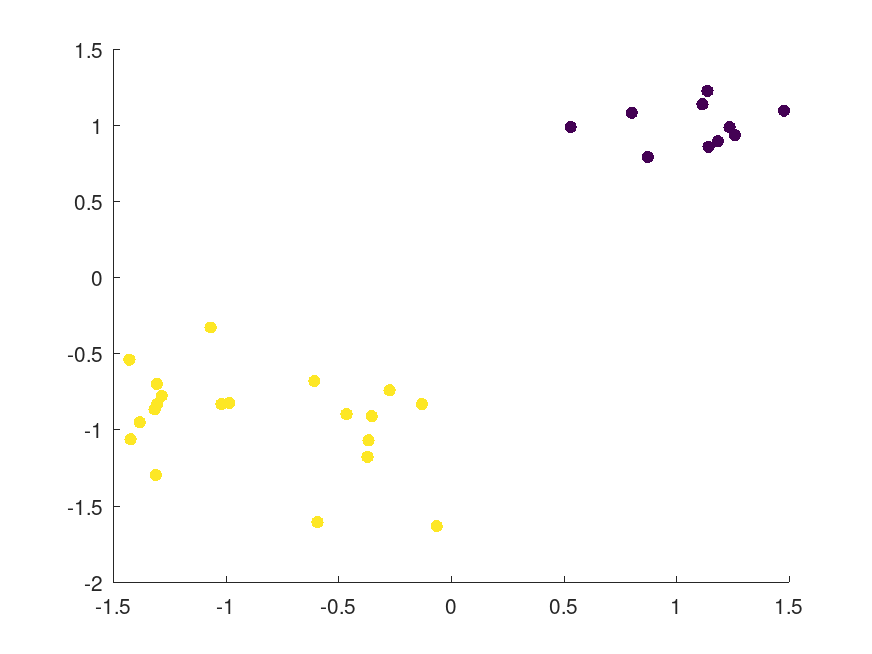
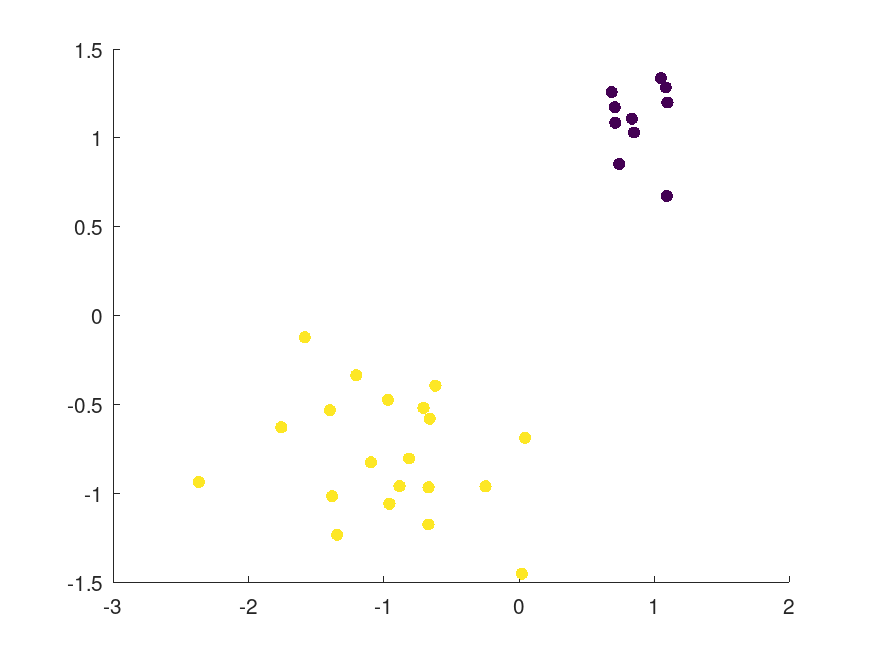
update documentation

diff --git a/docs/slicesample.html b/docs/slicesample.html
@@ -171,6 +171,7 @@ randsample
  ## Define function to sample
  d = 2;
  mu = [-1; 2];
+ rand ("seed", 5)  # for reproducibility
  Sigma = rand (d);
  Sigma = (Sigma + Sigma');
  Sigma += eye (d)*abs (eigs (Sigma, 1, "sa")) * 1.1;
@@ -181,7 +182,8 @@ randsample
  nsamples = 500;
  K = 500;
  m = 10;
- [smpl, accept]=slicesample (start, nsamples, "pdf", pdf, "burnin", K, "thin", m, "width", [20, 30]);
+ rande ("seed", 4);  rand ("seed", 5)  # for reproducibility
+ [smpl, accept] = slicesample (start, nsamples, "pdf", pdf, "burnin", K, "thin", m, "width", [20, 30]);
  figure;
  hold on;
  plot (smpl(:,1), smpl(:,2), 'x');
@@ -194,14 +196,14 @@ randsample
  int = mean (f (smpl) ./ pdf (smpl));
  errest = std (f (smpl) ./ pdf (smpl)) / nsamples^.5;
  trueerr = abs (2/3*pi*.25^(3/2)-int);
- fprintf("Monte Carlo integral estimate int f(x) dx = %f\n", int);
- fprintf("Monte Carlo integral error estimate %f\n", errest);
- fprintf("The actual error %f\n", trueerr);
+ fprintf ("Monte Carlo integral estimate int f(x) dx = %f\n", int);
+ fprintf ("Monte Carlo integral error estimate %f\n", errest);
+ fprintf ("The actual error %f\n", trueerr);
  mesh (x,y,reshape (f([x(:), y(:)]), size(x)), "facecolor", "None");
 
-Monte Carlo integral estimate int f(x) dx = 0.313119
-Monte Carlo integral error estimate 0.056838
-The actual error 0.051320
+Monte Carlo integral estimate int f(x) dx = 0.228408
+Monte Carlo integral error estimate 0.029831
+The actual error 0.033392
                     </pre></td></tr></tbody>
                   </table>
                   <div class="text-center">
@@ -235,22 +237,23 @@ The actual error 0.051320
  ## Integrate truncated normal distribution to find normilization constant
  pdf = @(x) exp (-.5*x.^2)/(pi^.5*2^.5);
  nsamples = 1e3;
- [smpl,accept] = slicesample (1, nsamples, "pdf", pdf, "thin", 4);
+ rande ("seed", 4);  rand ("seed", 5)  # for reproducibility
+ [smpl, accept] = slicesample (1, nsamples, "pdf", pdf, "thin", 4);
  f = @(x) exp (-.5 * x .^ 2) .* (x >= -2 & x <= 2);
- x=linspace(-3,3,1000);
- area(x,f(x));
- xlabel ('x');
- ylabel ('f(x)');
- int = mean (f (smpl)./pdf(smpl));
- errest = std (f (smpl)./pdf(smpl))/nsamples^.5;
- trueerr = abs (erf (2^.5)*2^.5*pi^.5-int);
+ x = linspace (-3, 3, 1000);
+ area (x, f(x));
+ xlabel ("x");
+ ylabel ("f(x)");
+ int = mean (f (smpl) ./ pdf (smpl));
+ errest = std (f (smpl) ./ pdf (smpl)) / nsamples ^ 0.5;
+ trueerr = abs (erf (2 ^ 0.5) * 2 ^ 0.5 * pi ^ 0.5 - int);
  fprintf("Monte Carlo integral estimate int f(x) dx = %f\n", int);
  fprintf("Monte Carlo integral error estimate %f\n", errest);
  fprintf("The actual error %f\n", trueerr);
 
-Monte Carlo integral estimate int f(x) dx = 2.368764
-Monte Carlo integral error estimate 0.018080
-The actual error 0.023812
+Monte Carlo integral estimate int f(x) dx = 2.376284
+Monte Carlo integral error estimate 0.017608
+The actual error 0.016292
                     </pre></td></tr></tbody>
                   </table>
                   <div class="text-center">

diff --git a/docs/index.html b/docs/index.html
@@ -728,7 +728,7 @@ samples as parameters.</td>
                    <a href="chi2cdf.html">chi2cdf</a>
                    </code></b>
                  </td>
-                 <td>Chi-squared cumulative distribution function.</td>
+                 <td>Chi-squared cumulative distribution function (CDF).</td>
                </tr>
                <tr>
                  <td>
@@ -1485,7 +1485,7 @@ with given parameters.</td>
                    <a href="nctpdf.html">nctpdf</a>
                    </code></b>
                  </td>
-                 <td>Noncentral Τ probability density function (pdf).</td>
+                 <td>Noncentral Τ probability density function (PDF).</td>
                </tr>
                <tr>
                  <td>

diff --git a/docs/clusterdata.html b/docs/clusterdata.html
@@ -118,7 +118,12 @@
                     <td>&nbsp;</td>
                     <td><pre class="example">
 
- X = [(randn (10, 2) * 0.25) + 1; (randn (20, 2) * 0.5) - 1];
+ randn ("seed", 1)  # for reproducibility
+ r1 = randn (10, 2) * 0.25 + 1;
+ randn ("seed", 5)  # for reproducibility
+ r2 = randn (20, 2) * 0.5 - 1;
+ X = [r1; r2];
+
  wnl = warning ("off", "Octave:linkage_savemem", "local");
  T = clusterdata (X, "linkage", "ward", "MaxClust", 2);
  scatter (X(:,1), X(:,2), 36, T, "filled");

diff --git a/docs/chi2cdf.html b/docs/chi2cdf.html
@@ -75,7 +75,7 @@
 <dt><u>statistics:</u> <var>p</var> = <b>chi2cdf</b><i> (<var>x</var>, <var>df</var>, <code>&quot;upper&quot;</code>)</i></dt>
 </dl>
 
-<p> Chi-squared cumulative distribution function.
+<p> Chi-squared cumulative distribution function (CDF).
 </p>
 <div class="ms-5">
 <p> For each element of <var>x</var>, compute the cumulative distribution function

diff --git a/docs/nctpdf.html b/docs/nctpdf.html
@@ -74,7 +74,7 @@
 <dt><u>statistics:</u> <var>y</var> = <b>nctpdf</b><i> (<var>x</var>, <var>df</var>, <var>delta</var>)</i></dt>
 </dl>
 
-<p> Noncentral Τ probability density function (pdf).
+<p> Noncentral Τ probability density function (PDF).
 </p>
 <div class="ms-5">
 <p> <code><var>y</var> = nctpdf (<var>x</var>, <var>df</var>, <var>delta</var>)</code> returns
